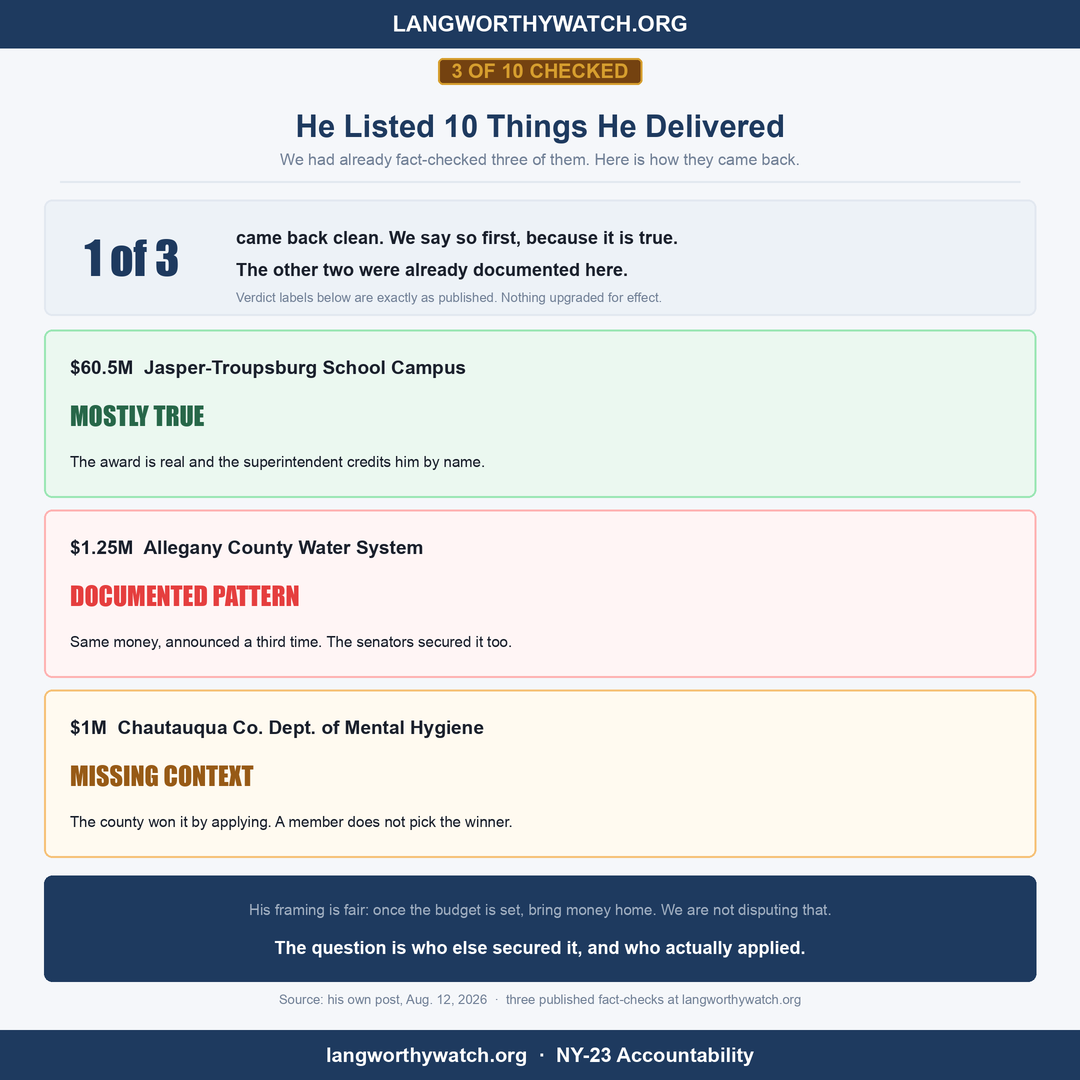
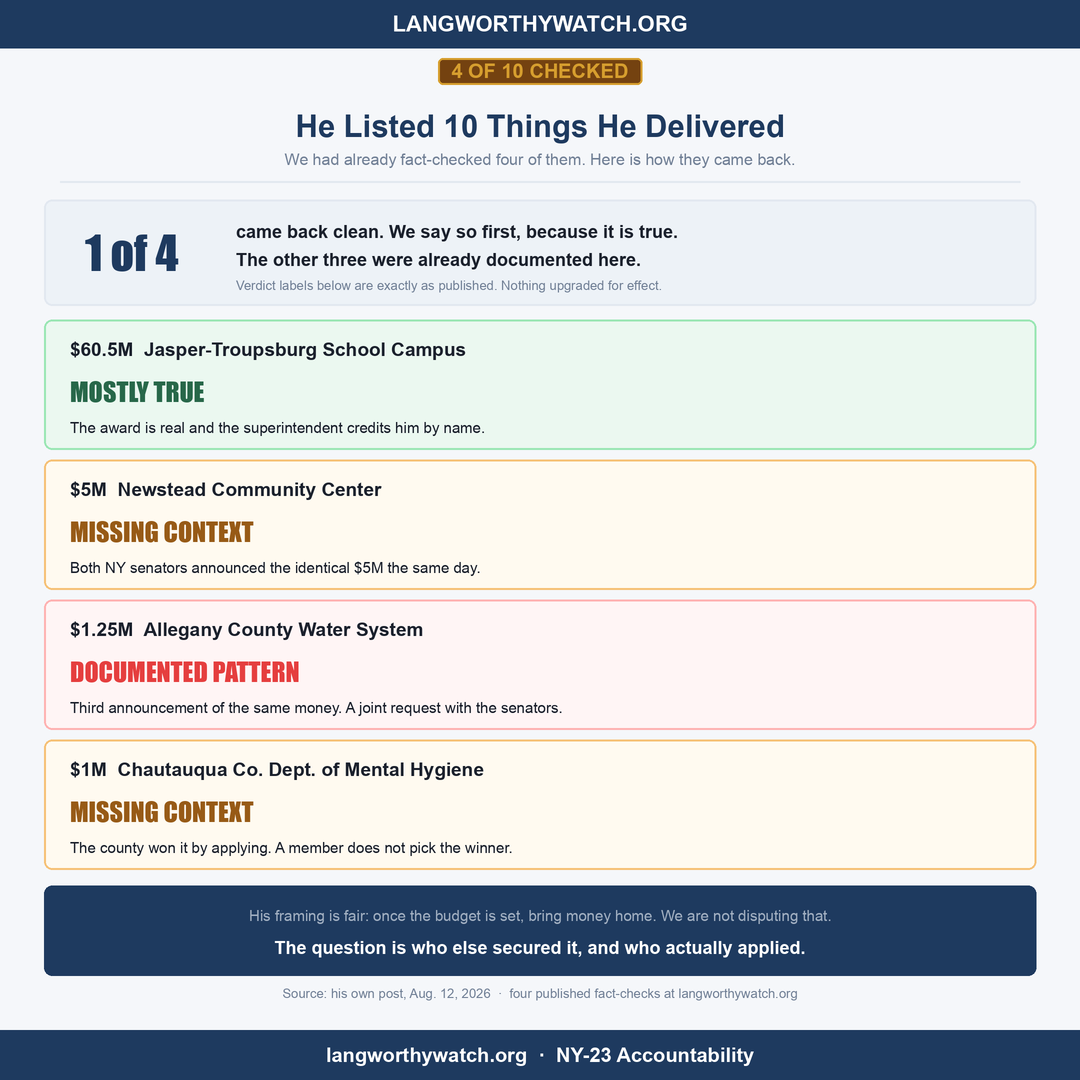
feat(social): add Newstead row to the delivered-list roundup
Newstead published, so its row can now be added and its link resolves.
Card and caption go from three rows to four; badge 3 OF 10 to 4 OF 10;
hero "1 of 3" to "1 of 4".

New row, verdict matching the published entry:
  $5M Newstead Community Center    MISSING CONTEXT
  Both NY senators announced the identical $5M the same day.

Placed second, directly after the item that came back clean, because it
is the sharpest of the four and the clean row is what earns it a reading.

Caption 2,131 chars, no em dashes. Card re-audited: rows compressed from
168 to 130 to fit four without reintroducing the dead-space failure.

diff --git a/social-media/create_delivered_list_card.py b/social-media/create_delivered_list_card.py
@@ -18,8 +18,10 @@ from lib.card import (Card, NAVY, DARK, RED, GREEN, BRONZE, MUTED, BORDER, WHITE
 ROWS = [
     ("$60.5M  Jasper-Troupsburg School Campus", "MOSTLY TRUE", GREEN, "#EBF8F0", "#9AE6B4",
      "The award is real and the superintendent credits him by name."),
+    ("$5M  Newstead Community Center", "MISSING CONTEXT", BRONZE, "#FFFAF0", "#F6C177",
+     "Both NY senators announced the identical $5M the same day."),
     ("$1.25M  Allegany County Water System", "DOCUMENTED PATTERN", RED, "#FFF5F5", "#FEB2B2",
-     "Same money, announced a third time. The senators secured it too."),
+     "Third announcement of the same money. A joint request with the senators."),
     ("$1M  Chautauqua Co. Dept. of Mental Hygiene", "MISSING CONTEXT", BRONZE, "#FFFAF0", "#F6C177",
      "The county won it by applying. A member does not pick the winner."),
 ]
@@ -27,39 +29,39 @@ ROWS = [
 c = Card(scale=2)
 c.brand_bar()
 
-y = c.badge(58, "3 OF 10 CHECKED")
+y = c.badge(58, "4 OF 10 CHECKED")
 y = c.title(y, "He Listed 10 Things He Delivered", size=31)
-y = c.subtitle(y + 6, "We had already fact-checked three of them. Here is how they came back.", size=16)
+y = c.subtitle(y + 6, "We had already fact-checked four of them. Here is how they came back.", size=16)
 y = c.divider(y + 12)
 
 # ---- hero ---------------------------------------------------------------
-hero_h = 116
+hero_h = 106
 c.panel(44, y + 2, c.w - 44, y + 2 + hero_h, fill="#EDF2F7", outline=BORDER)
-c.text(132, y + 2 + hero_h / 2, "1 of 3", size=46, impact=True, fill=NAVY, anchor="mm")
-c.text(236, y + 40, "came back clean. We say so first, because it is true.", size=18, bold=True, fill=DARK, anchor="lm")
-c.text(236, y + 72, "The other two were already documented here.", size=18, bold=True, fill=DARK, anchor="lm")
-c.text(236, y + 100, "Verdict labels below are exactly as published. Nothing upgraded for effect.", size=13, fill=MUTED, anchor="lm")
+c.text(132, y + 2 + hero_h / 2, "1 of 4", size=46, impact=True, fill=NAVY, anchor="mm")
+c.text(236, y + 34, "came back clean. We say so first, because it is true.", size=18, bold=True, fill=DARK, anchor="lm")
+c.text(236, y + 62, "The other three were already documented here.", size=18, bold=True, fill=DARK, anchor="lm")
+c.text(236, y + 88, "Verdict labels below are exactly as published. Nothing upgraded for effect.", size=13, fill=MUTED, anchor="lm")
 y = y + 2 + hero_h + 14
 
 # ---- rows ---------------------------------------------------------------
-row_h, gap = 168, 12
+row_h, gap = 130, 10
 for i, (item, verdict, col, fill, outline, note) in enumerate(ROWS):
     ry = y + i * (row_h + gap)
     c.panel(44, ry, c.w - 44, ry + row_h, fill=fill, outline=outline)
-    c.text(70, ry + 38, item, size=19, bold=True, fill=DARK, anchor="lm")
-    c.text(70, ry + 86, verdict, size=26, impact=True, fill=col, anchor="lm")
-    c.text(70, ry + 132, note, size=15, fill=DARK, anchor="lm")
+    c.text(70, ry + 30, item, size=19, bold=True, fill=DARK, anchor="lm")
+    c.text(70, ry + 72, verdict, size=26, impact=True, fill=col, anchor="lm")
+    c.text(70, ry + 108, note, size=15, fill=DARK, anchor="lm")
 y = y + len(ROWS) * (row_h + gap) + 6
 
 # ---- kicker -------------------------------------------------------------
-kick_h = 106
+kick_h = 90
 c.panel(44, y, c.w - 44, y + kick_h, fill=NAVY, outline=None)
-c.text(c.w / 2, y + 34, "His framing is fair: once the budget is set, bring money home. We are not disputing that.",
+c.text(c.w / 2, y + 30, "His framing is fair: once the budget is set, bring money home. We are not disputing that.",
        size=15, fill=LIGHTGRAY, anchor="mm")
-c.text(c.w / 2, y + 72, "The question is who else secured it, and who actually applied.", size=18, bold=True, fill=WHITE, anchor="mm")
+c.text(c.w / 2, y + 62, "The question is who else secured it, and who actually applied.", size=18, bold=True, fill=WHITE, anchor="mm")
 y += kick_h + 18
 
-c.text(c.w / 2, y, "Source: his own post, Aug. 12, 2026  ·  three published fact-checks at langworthywatch.org", size=13, fill=MUTED, anchor="mm")
+c.text(c.w / 2, y, "Source: his own post, Aug. 12, 2026  ·  four published fact-checks at langworthywatch.org", size=13, fill=MUTED, anchor="mm")
 
 c.footer_bar()
 c.save(os.path.join(os.path.dirname(os.path.abspath(__file__)), "delivered_list_card.png"), to_desktop=True)

diff --git a/social-media/delivered_list_post.md b/social-media/delivered_list_post.md
@@ -1,10 +1,14 @@
-Congressman Langworthy posted a list of ten things he is "proud to have delivered." We had already fact-checked three of them.
+Congressman Langworthy posted a list of ten things he is "proud to have delivered." We had already fact-checked four of them.
 
 One came back clean. We are saying that first, because it is true.
 
 CLAIM: $60.5 Million to rebuild Jasper-Troupsburg School Campus
 VERDICT: Mostly true
 The award is real, his advocacy is documented, and the district superintendent credits him by name. Context completes the picture, but the claim holds.
+
+CLAIM: $5 Million for Newstead Community Center
+VERDICT: Missing context
+Senators Schumer and Gillibrand announced the identical $5,000,000 for the identical project on the same day, February 4, as one of seven items in a $9,275,000 Western New York package. It is one appropriation, not his $5 million plus their $5 million. Neither of his announcements mentions them.
 
 CLAIM: $1.25 Million for Allegany County Water System
 VERDICT: Documented pattern
@@ -18,7 +22,7 @@ His framing is fair, and we will quote it rather than twist it: "I want Washingt
 
 The narrower question is who else secured the money, and who actually applied for it.
 
-Seven items on his list we have not checked. When we do, we will report what we find in either direction, the same way we did with Jasper-Troupsburg.
+Six items on his list we have not checked. When we do, we will report what we find in either direction, the same way we did with Jasper-Troupsburg.
 
-Don't take our word for it. Read the three entries and check the receipts.
+Don't take our word for it. Read the four entries and check the receipts.
 https://langworthywatch.org/fact-checks/
